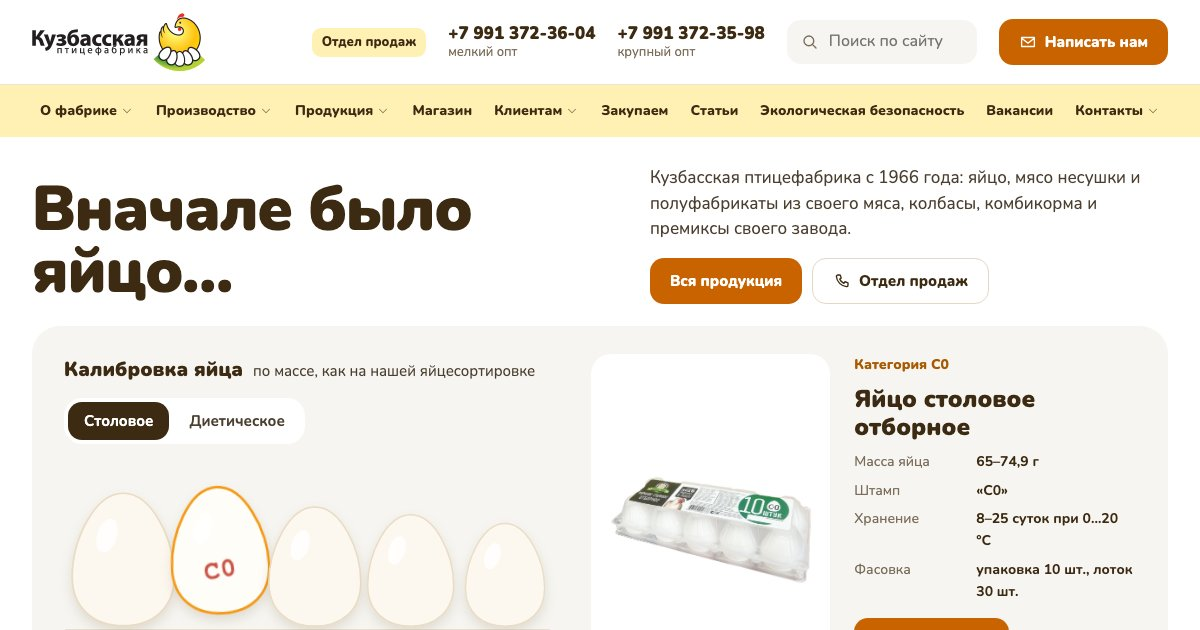
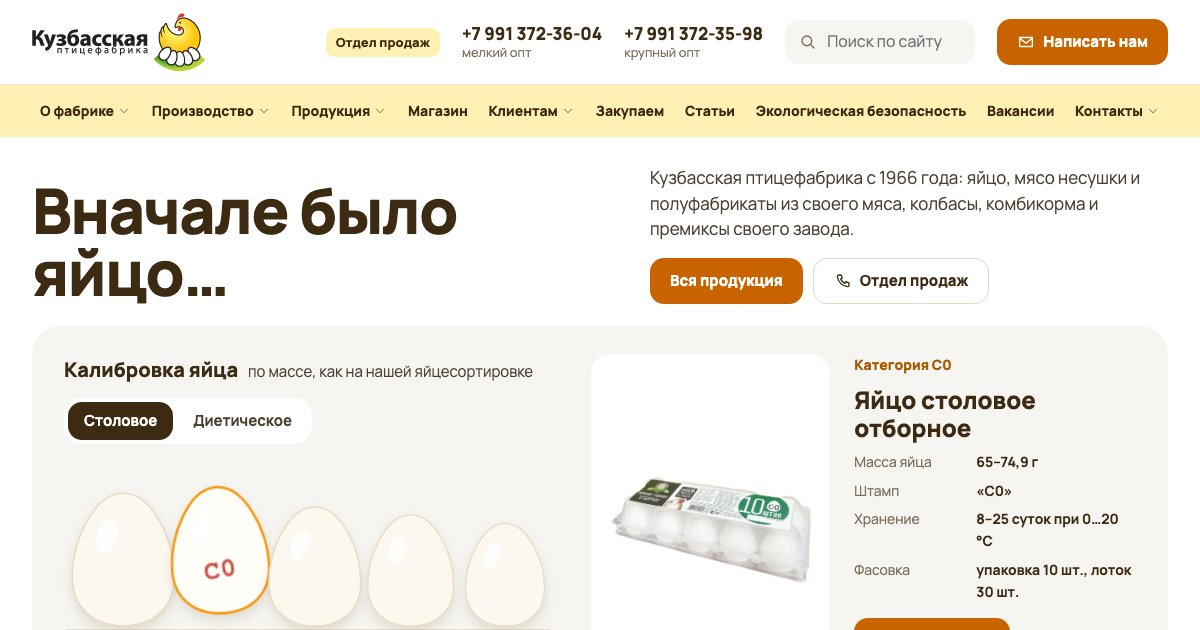
fix(redesign): kuzbasskay heading font Manrope instead of rounded Nunito

diff --git a/pages/redesign/kuzbasskay.vue b/pages/redesign/kuzbasskay.vue
@@ -24,7 +24,7 @@ useHead({
   link: [
     { rel: 'preconnect', href: 'https://fonts.googleapis.com' },
     { rel: 'preconnect', href: 'https://fonts.gstatic.com', crossorigin: '' },
-    { rel: 'stylesheet', href: 'https://fonts.googleapis.com/css2?family=Nunito:wght@400;600;700;800;900&display=swap' },
+    { rel: 'stylesheet', href: 'https://fonts.googleapis.com/css2?family=Manrope:wght@400;500;600;700;800&display=swap' },
   ],
 })
 
@@ -314,7 +314,7 @@ html.kz-lock {
   min-height: 100vh;
   background: #fff;
   color: var(--kz-text);
-  font-family: 'Nunito', system-ui, sans-serif;
+  font-family: 'Manrope', system-ui, sans-serif;
   font-size: 16px;
   line-height: 1.6;
 
@@ -1480,6 +1480,7 @@ ul.kz-artlist {
       }
       .kz-menu__link {
         padding: 6px 8px;
+        font-size: 14px;
       }
     }
   }
